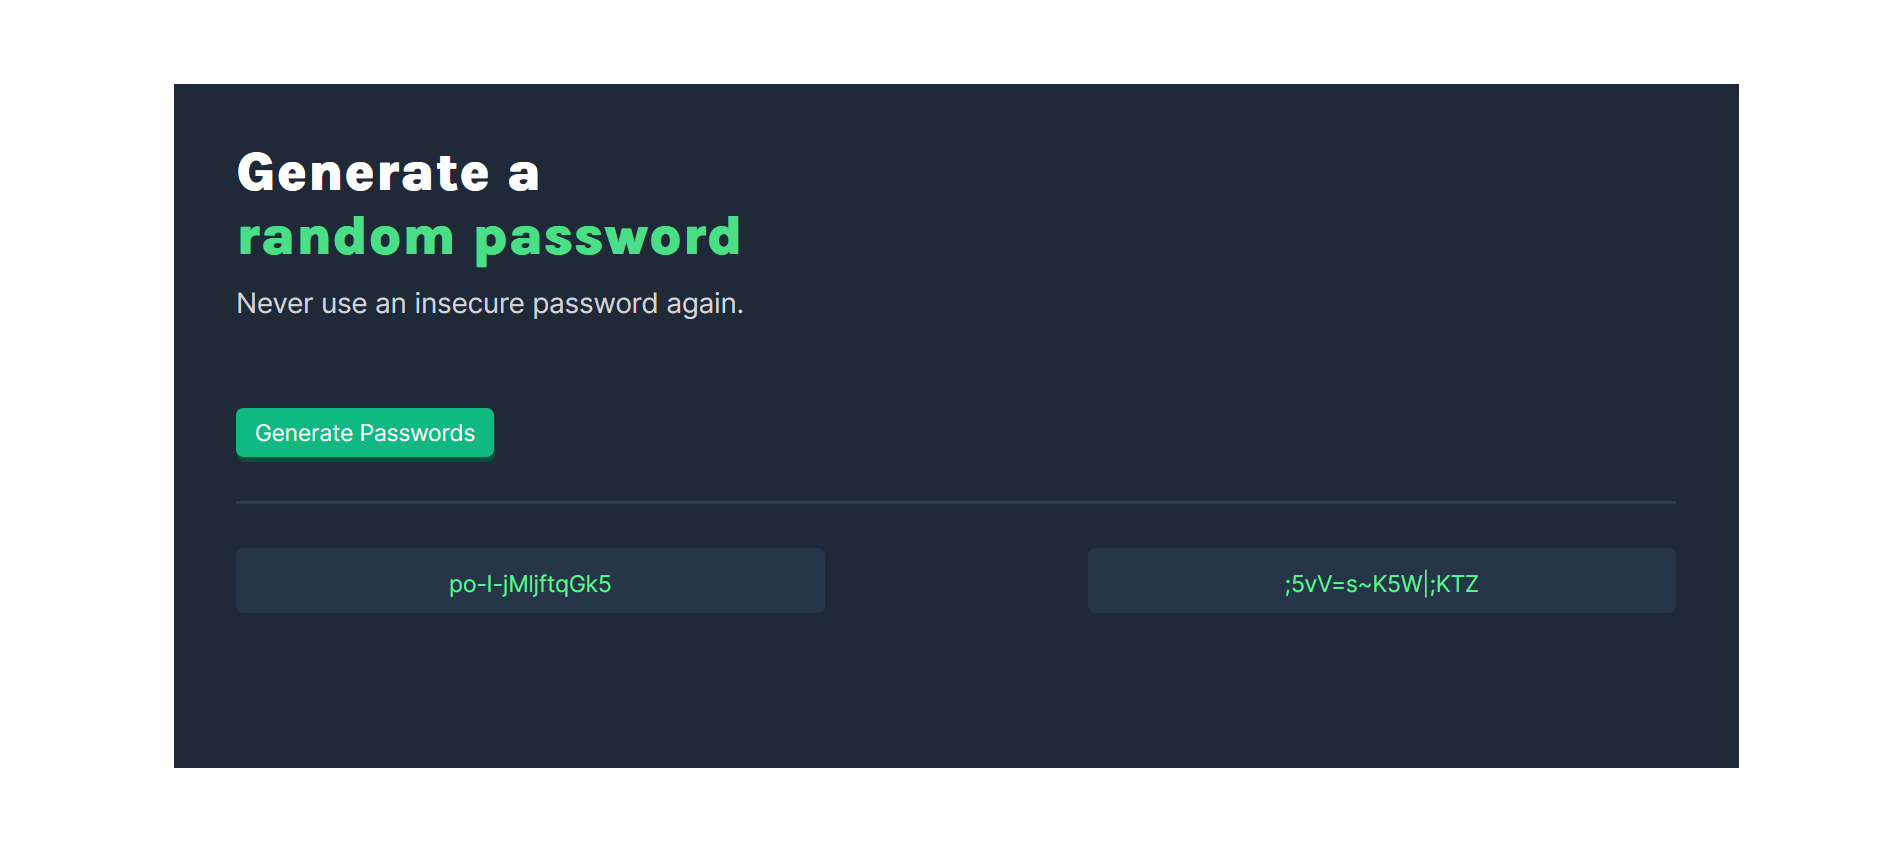
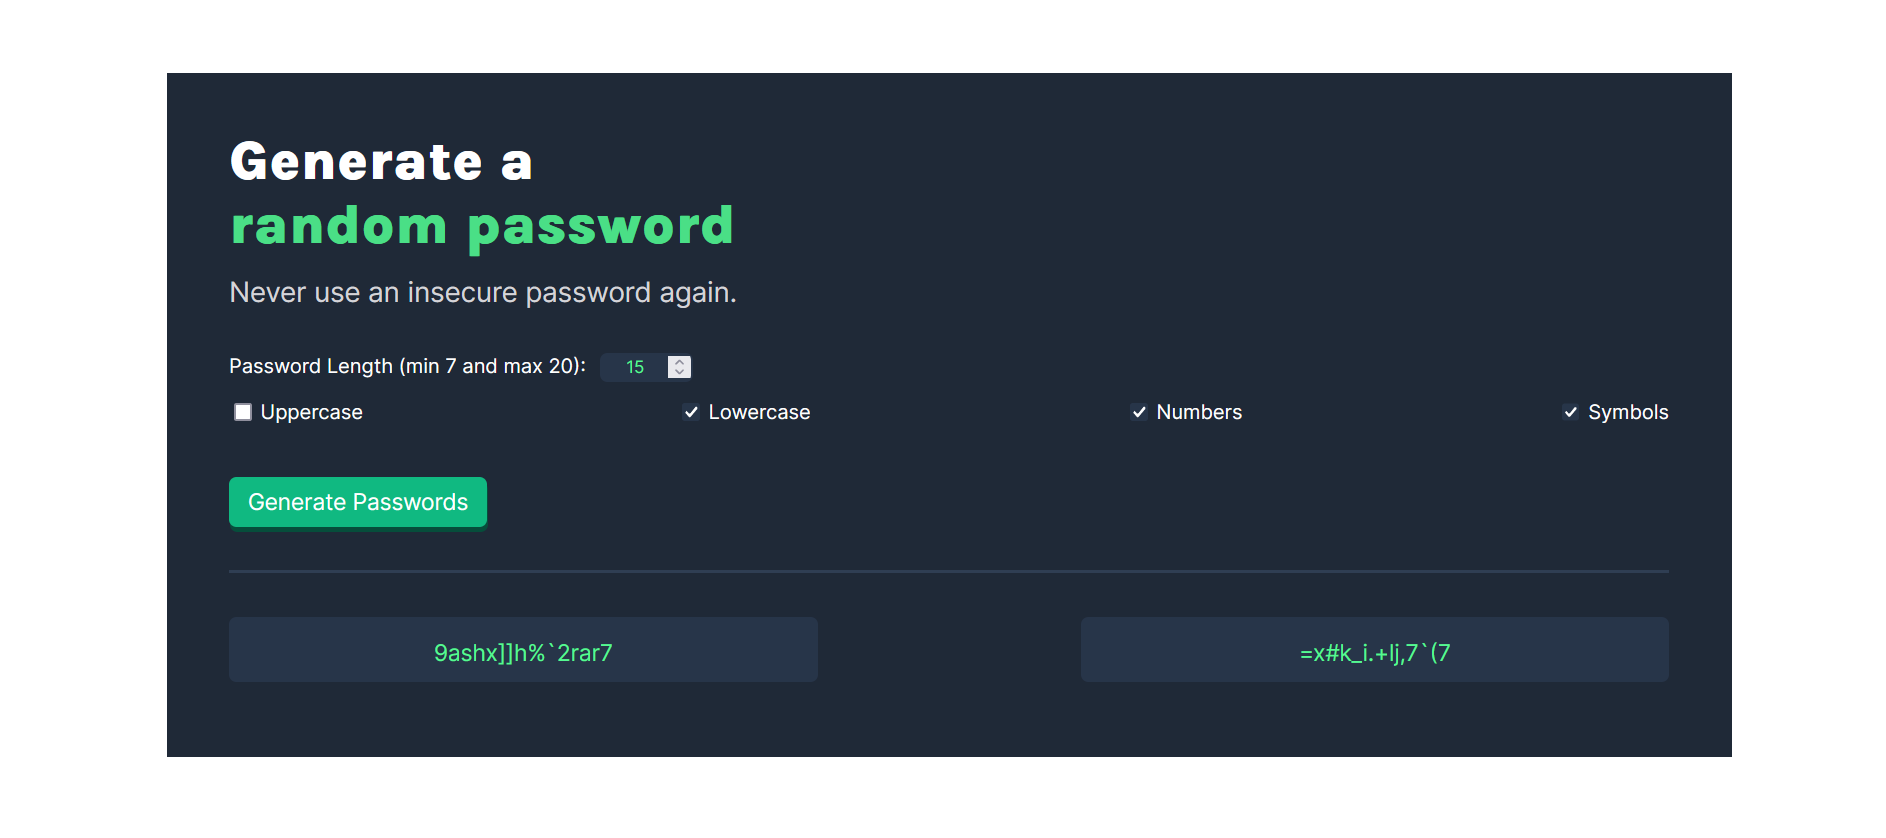
Update README.md with new screenshots and remove console.log
- Updated README.md to reflect the new look of the website with before and after images.
- Removed console.log statements that were used for testing purposes.
- Made additional changes to the README.md file to improve clarity and presentation.

diff --git a/index.js b/index.js
@@ -263,12 +263,8 @@ generatePasswordButton.addEventListener("click", function () {
             let password1 = "";
             let password2 = "";
 
-            console.log(characters);
             password1 = makePassword(requiredPasswordLength);
-            console.log(characters);
             password2 = makePassword(requiredPasswordLength);
-            console.log(characters);
-            console.log();
 
             password1El.textContent = password1;
             password2El.textContent = password2;

diff --git a/README.md b/README.md
@@ -10,8 +10,8 @@ Check out the live demo of the project deployed on Netlify: [Password Generator]
 
 - **Password Length Customization**: Easily set the desired length of your password.
 - **Copy to Clipboard**: Copy the generated password to your clipboard with a single click.
-- **Toggle Symbols & Numbers**: Choose whether to include symbols and numbers in your password.
-- **Responsive Design**: Enjoy a seamless experience on both desktop and mobile devices.
+- **Character Type Selection**: Generate passwords based on user-selected character types, including Uppercase, Lowercase, Numbers, and Symbols.
+- **Responsive Design**: Enjoy a seamless experience on desktop & tablets.
 
 ## 📸 Screenshots
 
